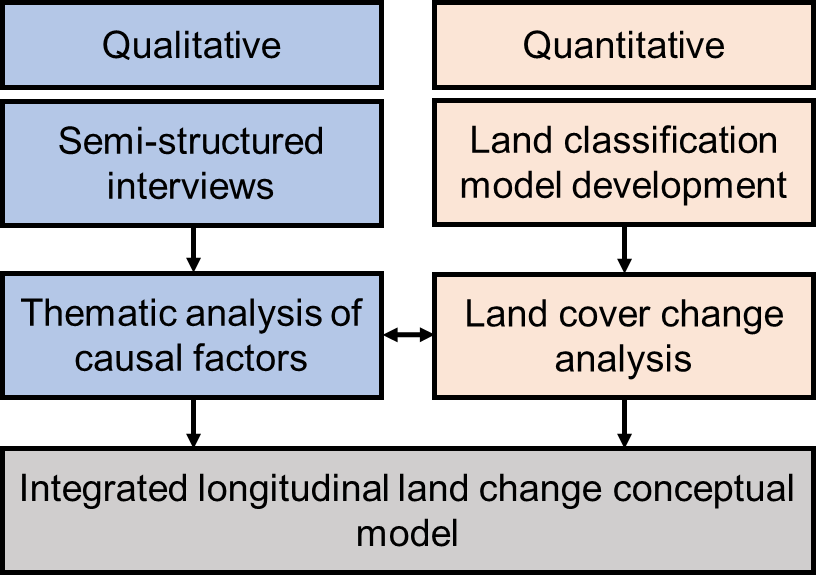
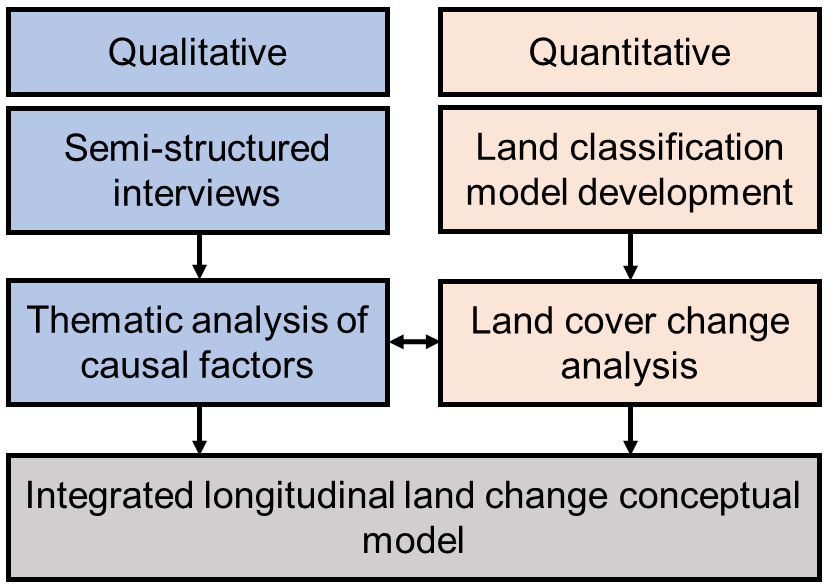
centering method image and adding boarder to method image

Changed region(s): [[0.4596, 0.0, 1.0, 0.7096], [0.0, 0.0, 0.4902, 0.7096], [0.0, 0.68, 1.0, 1.0]]

diff --git a/index.md b/index.md
@@ -14,8 +14,10 @@ Our random-plains-class repo found [here](https://github.com/jakebobu/random-pla
 ### A multi-method land change research study
 Cattle ranchers identify rapid social and ecological change as a threat to rangeland ecosystems and their natural resource-dependent communities. Therefore, our research team applied a multi-method approach, integrating qualitative and quantitative data, to examine the causes and consequences of land-use change on land cover in two agricultural communities in Larimer and Weld Counties, northeastern (NE) Colorado.
 
+<p align="center">
 <img src="data/methodology.png" width="400"/><br>
-<sub>The multi-method research process used to examine social-ecological land change in northeastern Colorado.</sub>
+</p>
+<sub>The multi-method research process used to examine social-ecological land change in northeastern Colorado.</sub><br><br>
 
 
 I developed and applied the random-plains-class repo for the study's quantitative component to analyze land cover changes for the two study sites. _*This repo is intended to help the qualitative methods by enabling us to align the land cover analysis's temporal and spatial extent with participants’ lived experiences.  We wanted more temporal information than NLCD could provide (its is a limited set of seven coherent/functional years, none of these before 2001).  These days with public satellite data and open source libraries its possible to create a psudo NLCD for every year and going further back in time.*_
